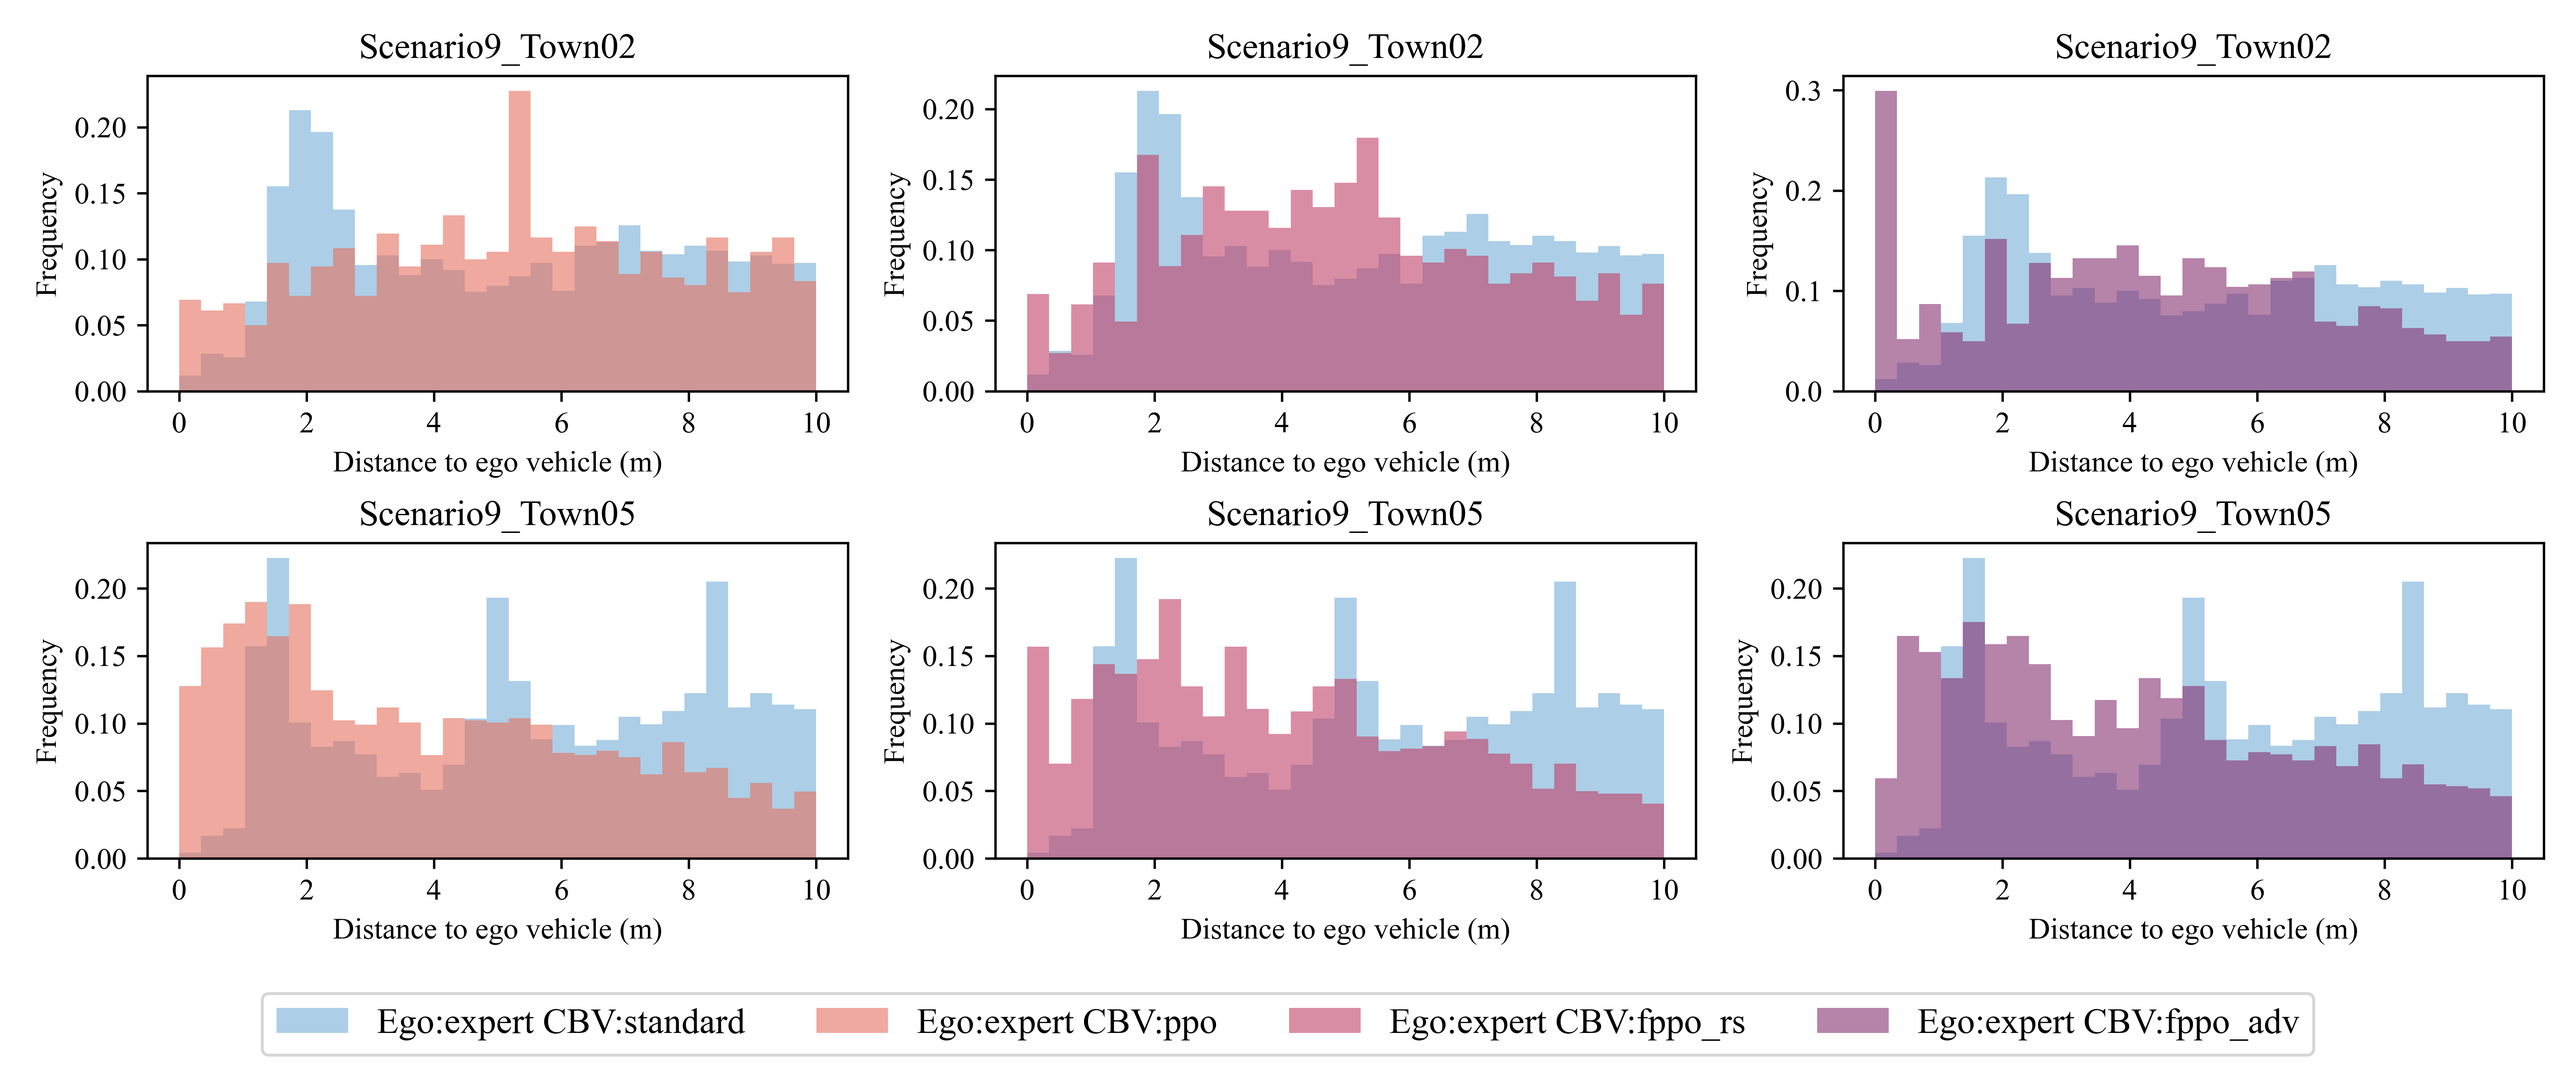
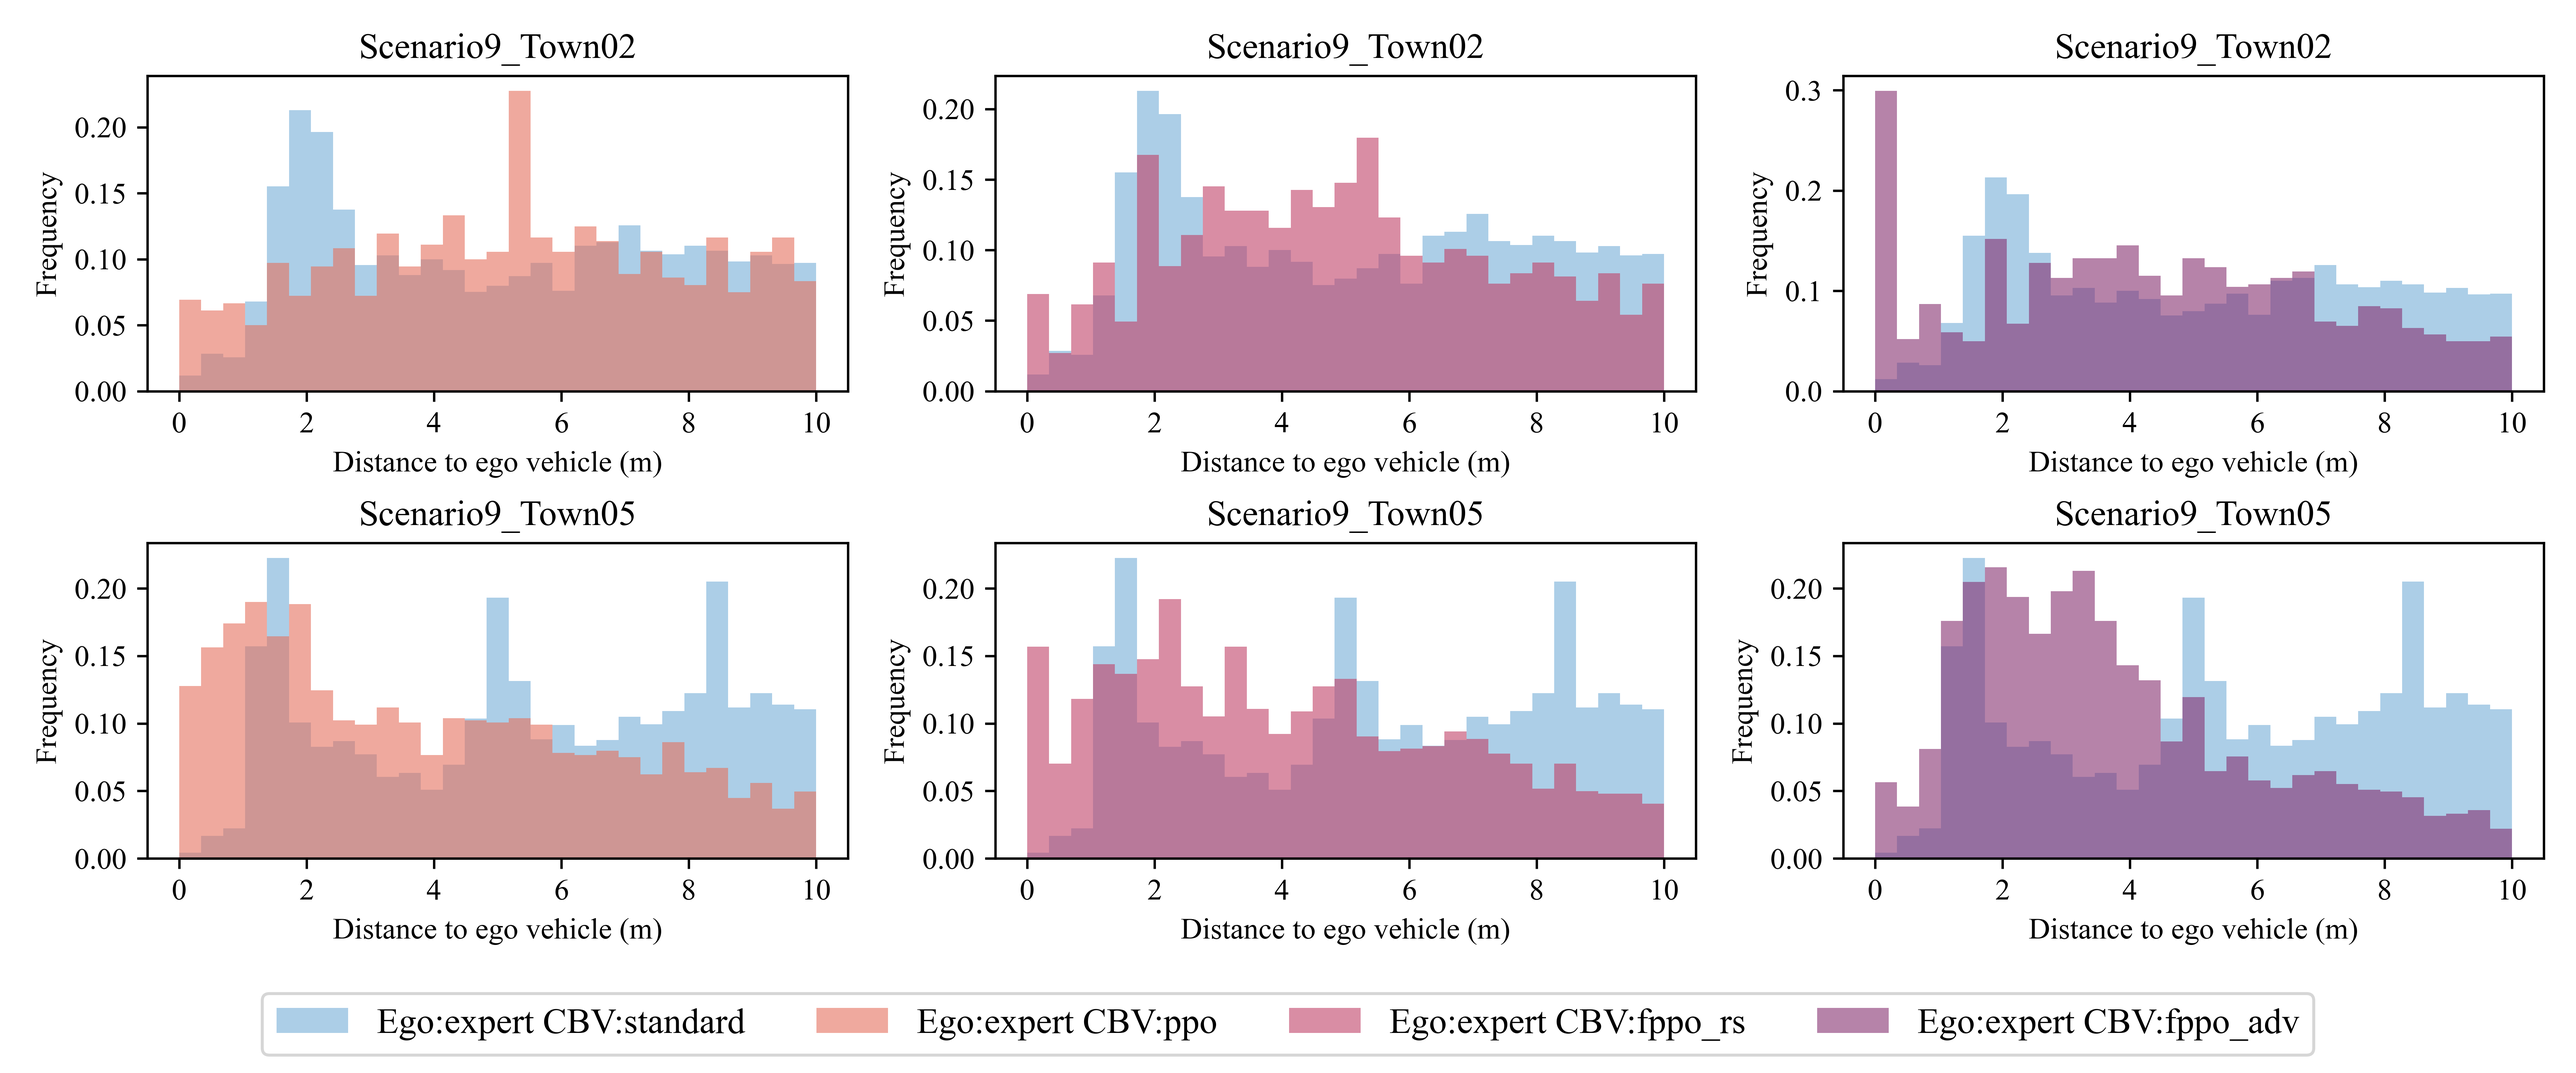
fix the closest_CBV_flag bug in fppo_rs

Changed region(s): [[0.7188, 0.527, 1.0, 0.775]]

diff --git a/safebench/scenario/scenario_policy/rl/fppo_rs.py b/safebench/scenario/scenario_policy/rl/fppo_rs.py
@@ -40,10 +40,10 @@ class FPPORs(PPO):
     def set_feasibility_policy(self, feasibility_policy):
         self.feability_policy = feasibility_policy
 
-    def get_feasibility_rewards(self, closest_CBV_flag, ego_next_obs):
-        feasibility_rewards = torch.full_like(closest_CBV_flag, 0.0)
+    def get_feasibility_rewards(self, next_closest_CBV_flag, ego_next_obs):
+        feasibility_rewards = torch.full_like(next_closest_CBV_flag, 0.0)
         # only consider the CBV is the closest BV from ego
-        indices = torch.where(closest_CBV_flag > 0.5)[0]
+        indices = torch.where(next_closest_CBV_flag > 0.5)[0]
         if indices.numel() > 0:
             obs_inputs = ego_next_obs[indices]
             feasibility_next_V = self.feability_policy.get_feasibility_Vs(obs_inputs).squeeze()
@@ -70,9 +70,9 @@ class FPPORs(PPO):
             unterminated = CUDA(torch.FloatTensor(1-batch['terminated']))
             buffer_size = states.shape[0]
             # feasibility
-            closest_CBV_flag = CUDA(torch.FloatTensor(batch['closest_CBV_flag']))
+            next_closest_CBV_flag = CUDA(torch.FloatTensor(batch['next_closest_CBV_flag']))
             ego_next_obs = CUDA(torch.FloatTensor(batch['ego_next_obs']))
-            feasibility_rewards = self.get_feasibility_rewards(closest_CBV_flag, ego_next_obs)
+            feasibility_rewards = self.get_feasibility_rewards(next_closest_CBV_flag, ego_next_obs)
 
             rewards += feasibility_rewards
 
@@ -81,7 +81,7 @@ class FPPORs(PPO):
 
             advantages = self.get_advantages_GAE(rewards, undones, values, next_values, unterminated)
             reward_sums = advantages + values
-            del rewards, undones, values, next_values, unterminated, feasibility_rewards, closest_CBV_flag, ego_next_obs
+            del rewards, undones, values, next_values, unterminated, feasibility_rewards, next_closest_CBV_flag, ego_next_obs
 
             advantages = (advantages - advantages.mean()) / (advantages.std(dim=0) + 1e-5)
 
